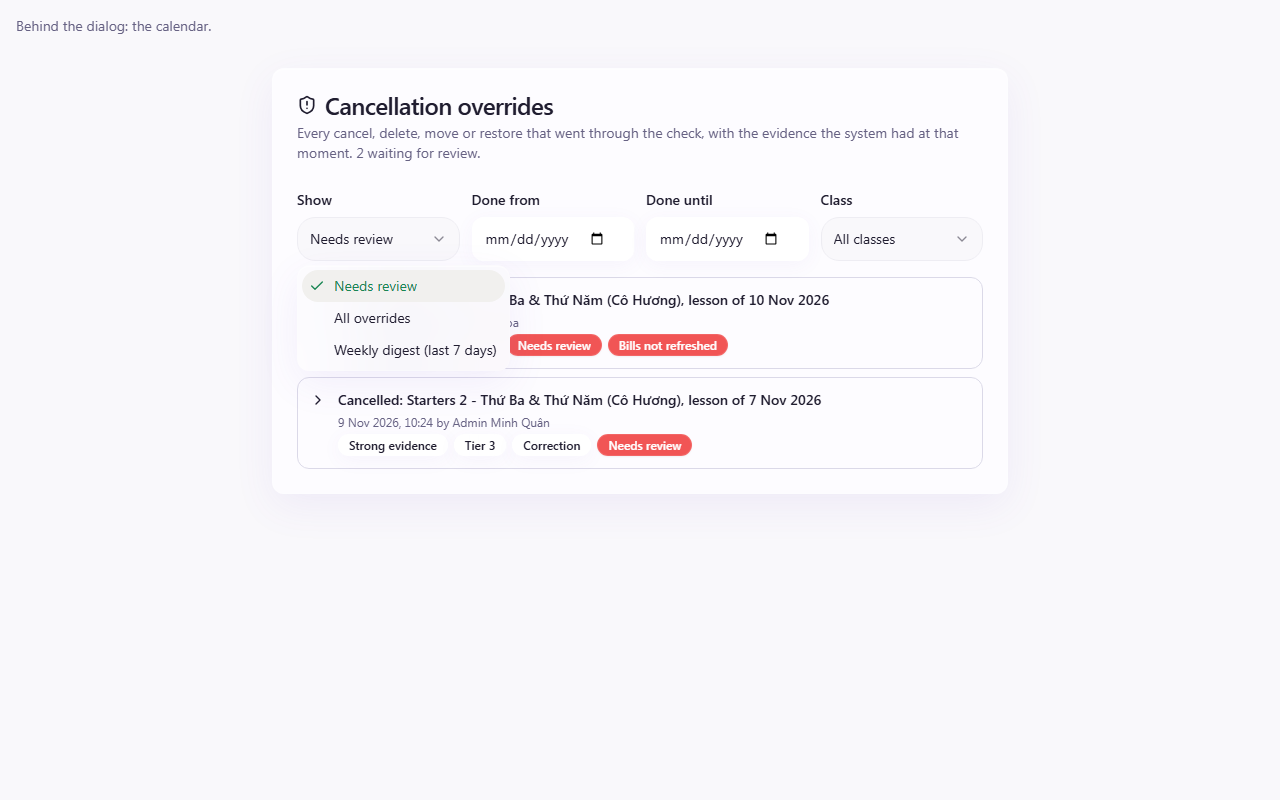
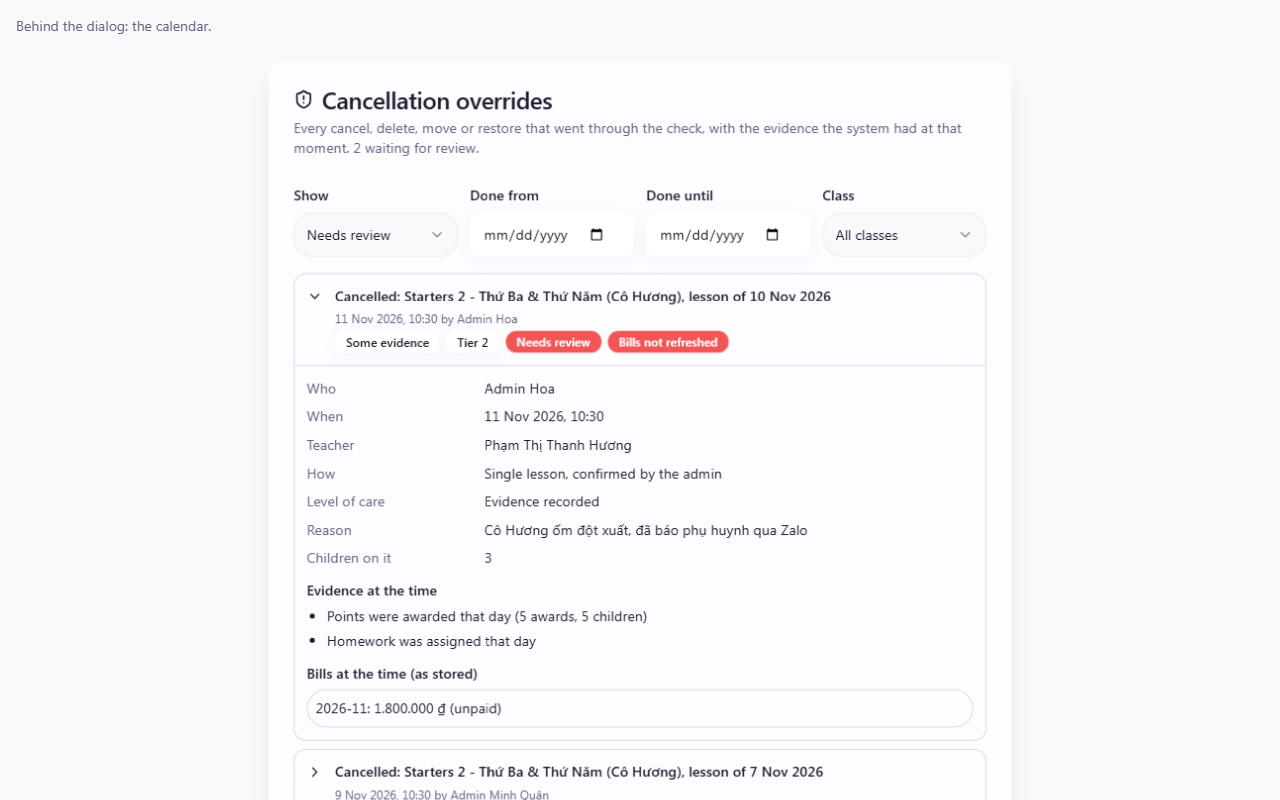
D3: evidence doc, screenshots

diff --git a/docs/evidence/D3-dialogs.md b/docs/evidence/D3-dialogs.md
@@ -1,3 +1,42 @@
-# D3 dialogs
+# D3 dialogs ("Check before cancelling")
 
-Where I am / next step: F-1 adapter done (30 tests pass); harness works (none-future OK); next: full screenshot run, tsc proof, grep for direct writes, final notes.
+Where I am / next step: all code, tests and screenshots done; waiting on the final tsc run result (see "Verification"), then remove the node_modules link and report.
+
+Written and rendered against a FAKE client only. Nothing deployed, no live Supabase, no sign-in.
+
+## Files
+
+New: `src/lib/sessionGuard.ts` (all wording, validators, adapter), `scripts/sessionGuard.test.ts`, `src/components/admin/session-guard/` (`api.ts`, `useGuardedChange.ts`, `GuardDialog.tsx`, `EvidenceCards.tsx`, `ConsequenceTable.tsx`, `Fields.tsx`, `CancelOverridesReview.tsx`).
+Rewired: `CancelSessionDialog`, `DeleteSessionDialog`, `SessionActionsModal` (direct hard delete and automatic force-cancel removed), `EditSessionModal` (admin/; time change -> checked move, teacher/notes -> `update`), `class/EditSessionModal` (status into/out of Canceled -> guard), `BulkSessionDelete` (two-step), `schedule/GlobalCalendar` (drag -> move dialog; Undo is another checked move), `tabs/AutomationTab.tsx` (review screen added as an advanced section; `Admin.tsx` NOT touched).
+
+## Field names assumed (D-review-3 F-1 contract change)
+
+All read through ONE adapter, `readStoredBills()` in `src/lib/sessionGuard.ts`; a rename is a one-line change there.
+- Stored bills list: `consequences.invoices_before`, else `consequences.bills`, else `preview.invoices_before`, else the older `consequences.tuition[].before`.
+- Each bill: `student_id`, `month`, `total_amount`, `discount_amount`, `recorded_payment`, `status`, `confirmation_status`, `tuition_frozen` (the same keys the migration stores in `invoices_after`).
+- Missing total -> "Current bill: not available". No "after" figure is ever shown or computed; the line "The new bill is worked out after the lesson is cancelled and shown here." is shown. `consequences.reason === 'not_requested'` -> "figures were not requested".
+- Teacher pay line: `consequences.payroll { fetched, month, teacher_id, response.payrollData[].{teacherId,totalAmountActual,sessionsCountActual} }`, shown as "as it stands now"; not-fetched -> "could not be worked out".
+- Success: `result.override_id`, `result.review_required`, `tuition.{status,results[],failed[]}`. Errors: `code`, `preview` (on `token_stale`), `use_action`. Wording is keyed on `code` (ERROR_TEXT), not `message_key` (D2-guard-design's `cancel_guard.*` keys differ from D2-edge-build's `sessionGuard.error.*`; code is the same in both).
+- Review screen reads `session_cancel_overrides` (table), `session_cancel_review_queue` and `session_cancel_tuition_pending` (views) with the admin's own client, cast through `any` because `types.ts` lacks them. "Reviewed" = review_required and absent from the queue view.
+
+## Verification
+
+- `npx --yes bun test scripts/sessionGuard.test.ts`: 30 pass, 0 fail (reason mirror, typed date, canSubmit gating, error codes and parseInvokeError, stale diff, stored-bill rows/totals without arithmetic, payroll line, refresh summary, bulk grouping and acknowledgement, review filters).
+- tsc: see the last line of this file.
+- No direct write to `sessions` in any file I touched (grep script over `src/`, `.from("sessions")` followed by insert/update/delete/upsert). Remaining direct session writes elsewhere in `src/` (not mine; contract says unaffected by the functions, but the migration's trigger still governs them):
+  - `src/components/admin/class/AttendanceDrawer.tsx:129`
+  - `src/components/admin/class/SessionDetailDrawer.tsx:115` (teacher/notes)
+  - `src/components/admin/TeacherScheduleTransfer.tsx:143` and `:156`
+  - `src/components/teacher/AttendanceMarking.tsx:216` (teacher sets Held)
+- Screenshots in `docs/evidence/D3/` at 375 and 1280 (each under 300 KB, PNG): loading skeleton, NONE future, NONE past, SOFT (open, ready), STRONG (open, wrong date, ready with typed date), settled/correction, stale token (banner, button disabled again), partly failed refresh with retry, guard not installed, unknown error code shown, delete refused -> "Cancel instead" -> cancel dialog, move, bulk with mixed evidence (preview, ticked rows with own reason, result), review screen (needs review, expanded row, weekly digest). The first few (none-future, none-past, soft-1, strong-1) pre-date the opaque dialog surface and contrast tweak.
+- axe-core on the open dialog (soft, ready state, 1280): 0 violations after the contrast fix (before it: 1 serious `color-contrast` on the destructive button text, #f04242 on near-white 3.68:1; the destructive tint is now the border and icon, text is foreground). Harness-only moderate findings on the bulk/review pages (`landmark-one-main`, `page-has-heading-one`, `region`) come from the bare harness page having no `<main>`, not from the components. No horizontal page scroll at 375 in any state.
+
+## Not implemented / ambiguous in the contract
+
+1. Marking an override "reviewed" (`record_session_override_event('reviewed')`) is not on the screen: the brief asked for the queue state only, and the reviewer-must-differ rule is an owner decision.
+2. Bulk HARD delete (manage-session `bulk-delete`) has no screen; the old screen only cancelled.
+3. `Canceled -> Held` via status menu: not offered (server returns `uncancel_to_scheduled_only`).
+4. A time-only drag (preview `kind: null`) still opens the dialog (one click, no reason) rather than moving silently.
+5. The preview's `invoices_before` field names are assumed (see above); the real per-bill payroll "after" is never shown.
+6. Contract keys differ between D2-guard-design (`cancel_guard.*`) and D2-edge-build (`sessionGuard.error.*`); the UI keys on `code`.
+7. The harness could not exercise real `supabase-js` `functions.invoke` error objects; `parseInvokeError` reads `error.context.json()` per the contract.
